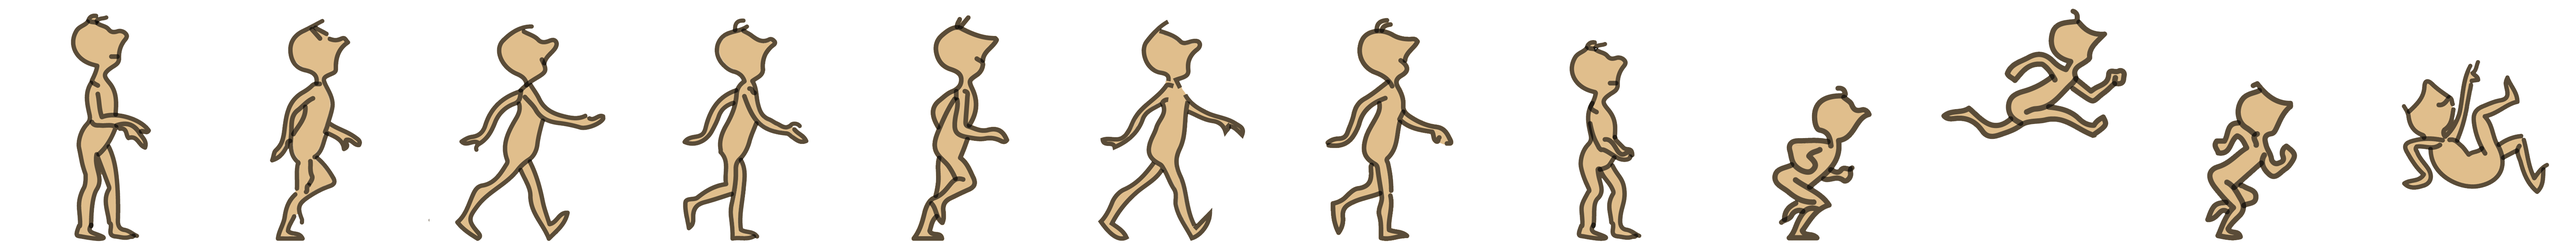
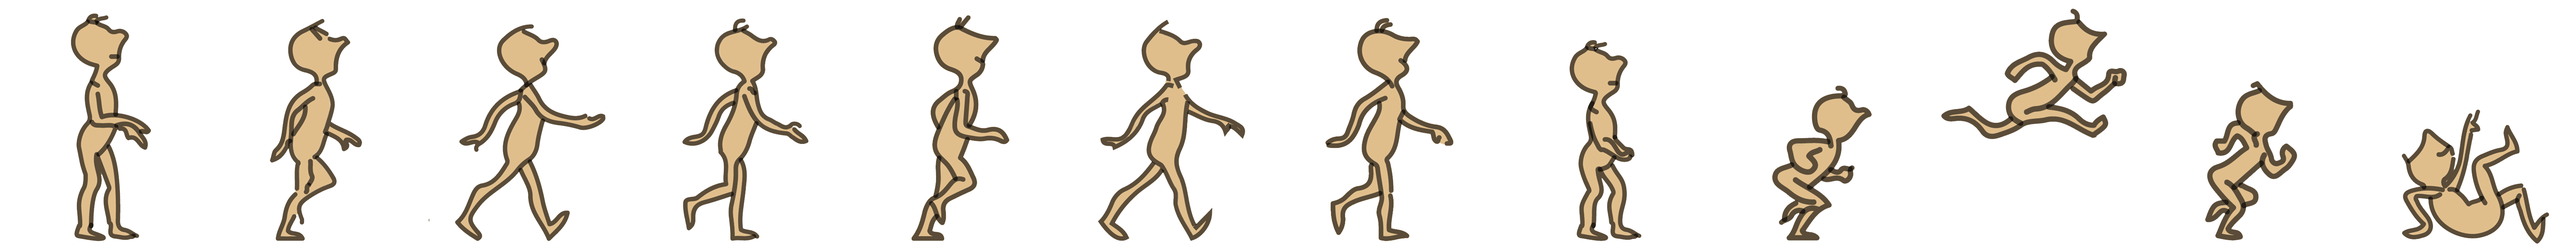
prefinal

Changed region(s): [[0.9345, 0.27, 0.9968, 0.96]]

diff --git a/Assets/_Script/Anime.cs b/Assets/_Script/Anime.cs
@@ -12,7 +12,6 @@ public class Anime : MonoBehaviour {
         anime = this.GetComponent<Animator>();
         Collider2D coHuman = this.GetComponent<Collider2D>();
         anime.SetBool("Land", true);
-        anime.SetBool("Up", false);
         anime.SetBool("Fall", false);
 
     }
@@ -22,31 +21,38 @@ public class Anime : MonoBehaviour {
 		
 	}
 
-    void Reset()
+    public void Reset()
     {
         anime.SetBool("Land", true);
-        anime.SetBool("Up", false);
         anime.SetBool("Fall", false);
         // reset the transform of the cloud and the character
     }
 
-    void Jump()
+    public void Jump()
     {
         anime.SetBool("Land", false);
-        anime.SetBool("Up", false);
         anime.SetBool("Fall", false);
-        this.GetComponent<Rigidbody2D>().AddForce(new Vector2(0, 10), ForceMode2D.Impulse);
+        this.GetComponent<Rigidbody2D>().AddForce(new Vector2(0, 50), ForceMode2D.Impulse);
         
     }
 
-    void LandJudge()
+    public void LandJudge()
     {
         Collider2D co = this.GetComponent<Collider2D>();
         Collider2D cloudco = cloud.GetComponent<Collider2D>();
         if (co.IsTouching(cloudco)){
+            anime.SetBool("Land", true);
+        }
+        else
+        {
             anime.SetBool("Land", false);
         }
         
+    }
+
+    public void Fall()
+    {
+        anime.SetBool("Fall", true);
     }
 
 }

diff --git a/Assets/_Script/Level3.cs b/Assets/_Script/Level3.cs
@@ -20,6 +20,7 @@ public class Level3 : MonoBehaviour {
     public AudioSource com;
     public AudioSource effects;
     public float tolerence = 0.2f;
+    public Anime animecontrol;
 
     private int state = 0; //0= computer play. 1= playerplay 2 = played;
     private float unitTime = 0;
@@ -50,12 +51,14 @@ public class Level3 : MonoBehaviour {
             {
                 PlayerPlay(iPlayer, jPlayer);
                 state = 2;
+                animecontrol.Jump();
                 correct++;
             }
             else
             {
                 print("wrong" + (hitStamp - noteStamp).ToString());
                 EffectPlay(0);
+                animecontrol.Fall();
                 state = 2;
                 wrong++;
             }
@@ -105,6 +108,7 @@ public class Level3 : MonoBehaviour {
                 if(state ==1)
                 {
                     EffectPlay(0);
+                    animecontrol.Fall();
                     wrong++;
                 }
             }
